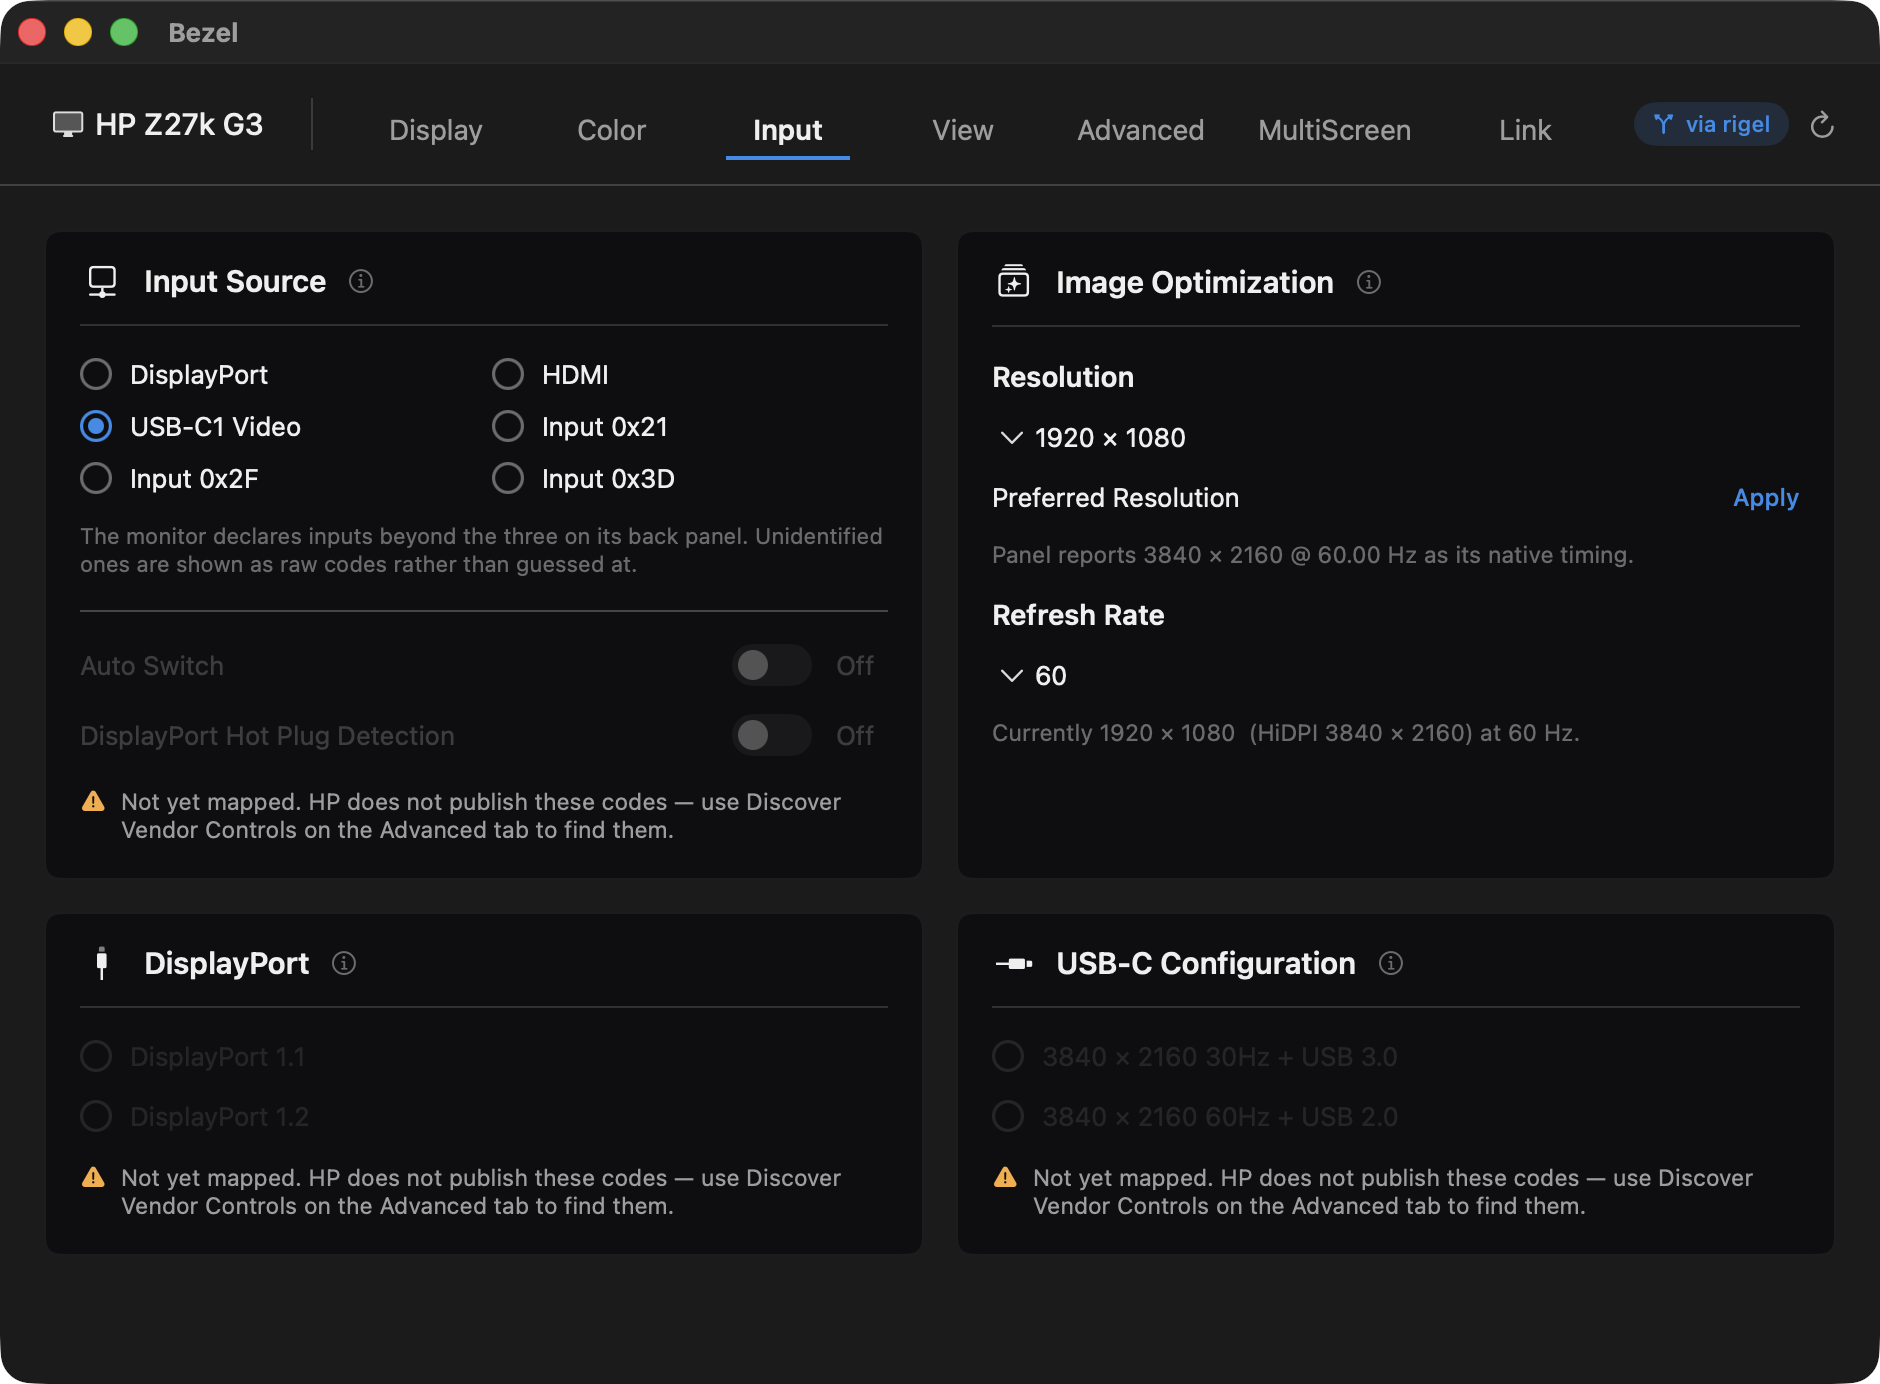
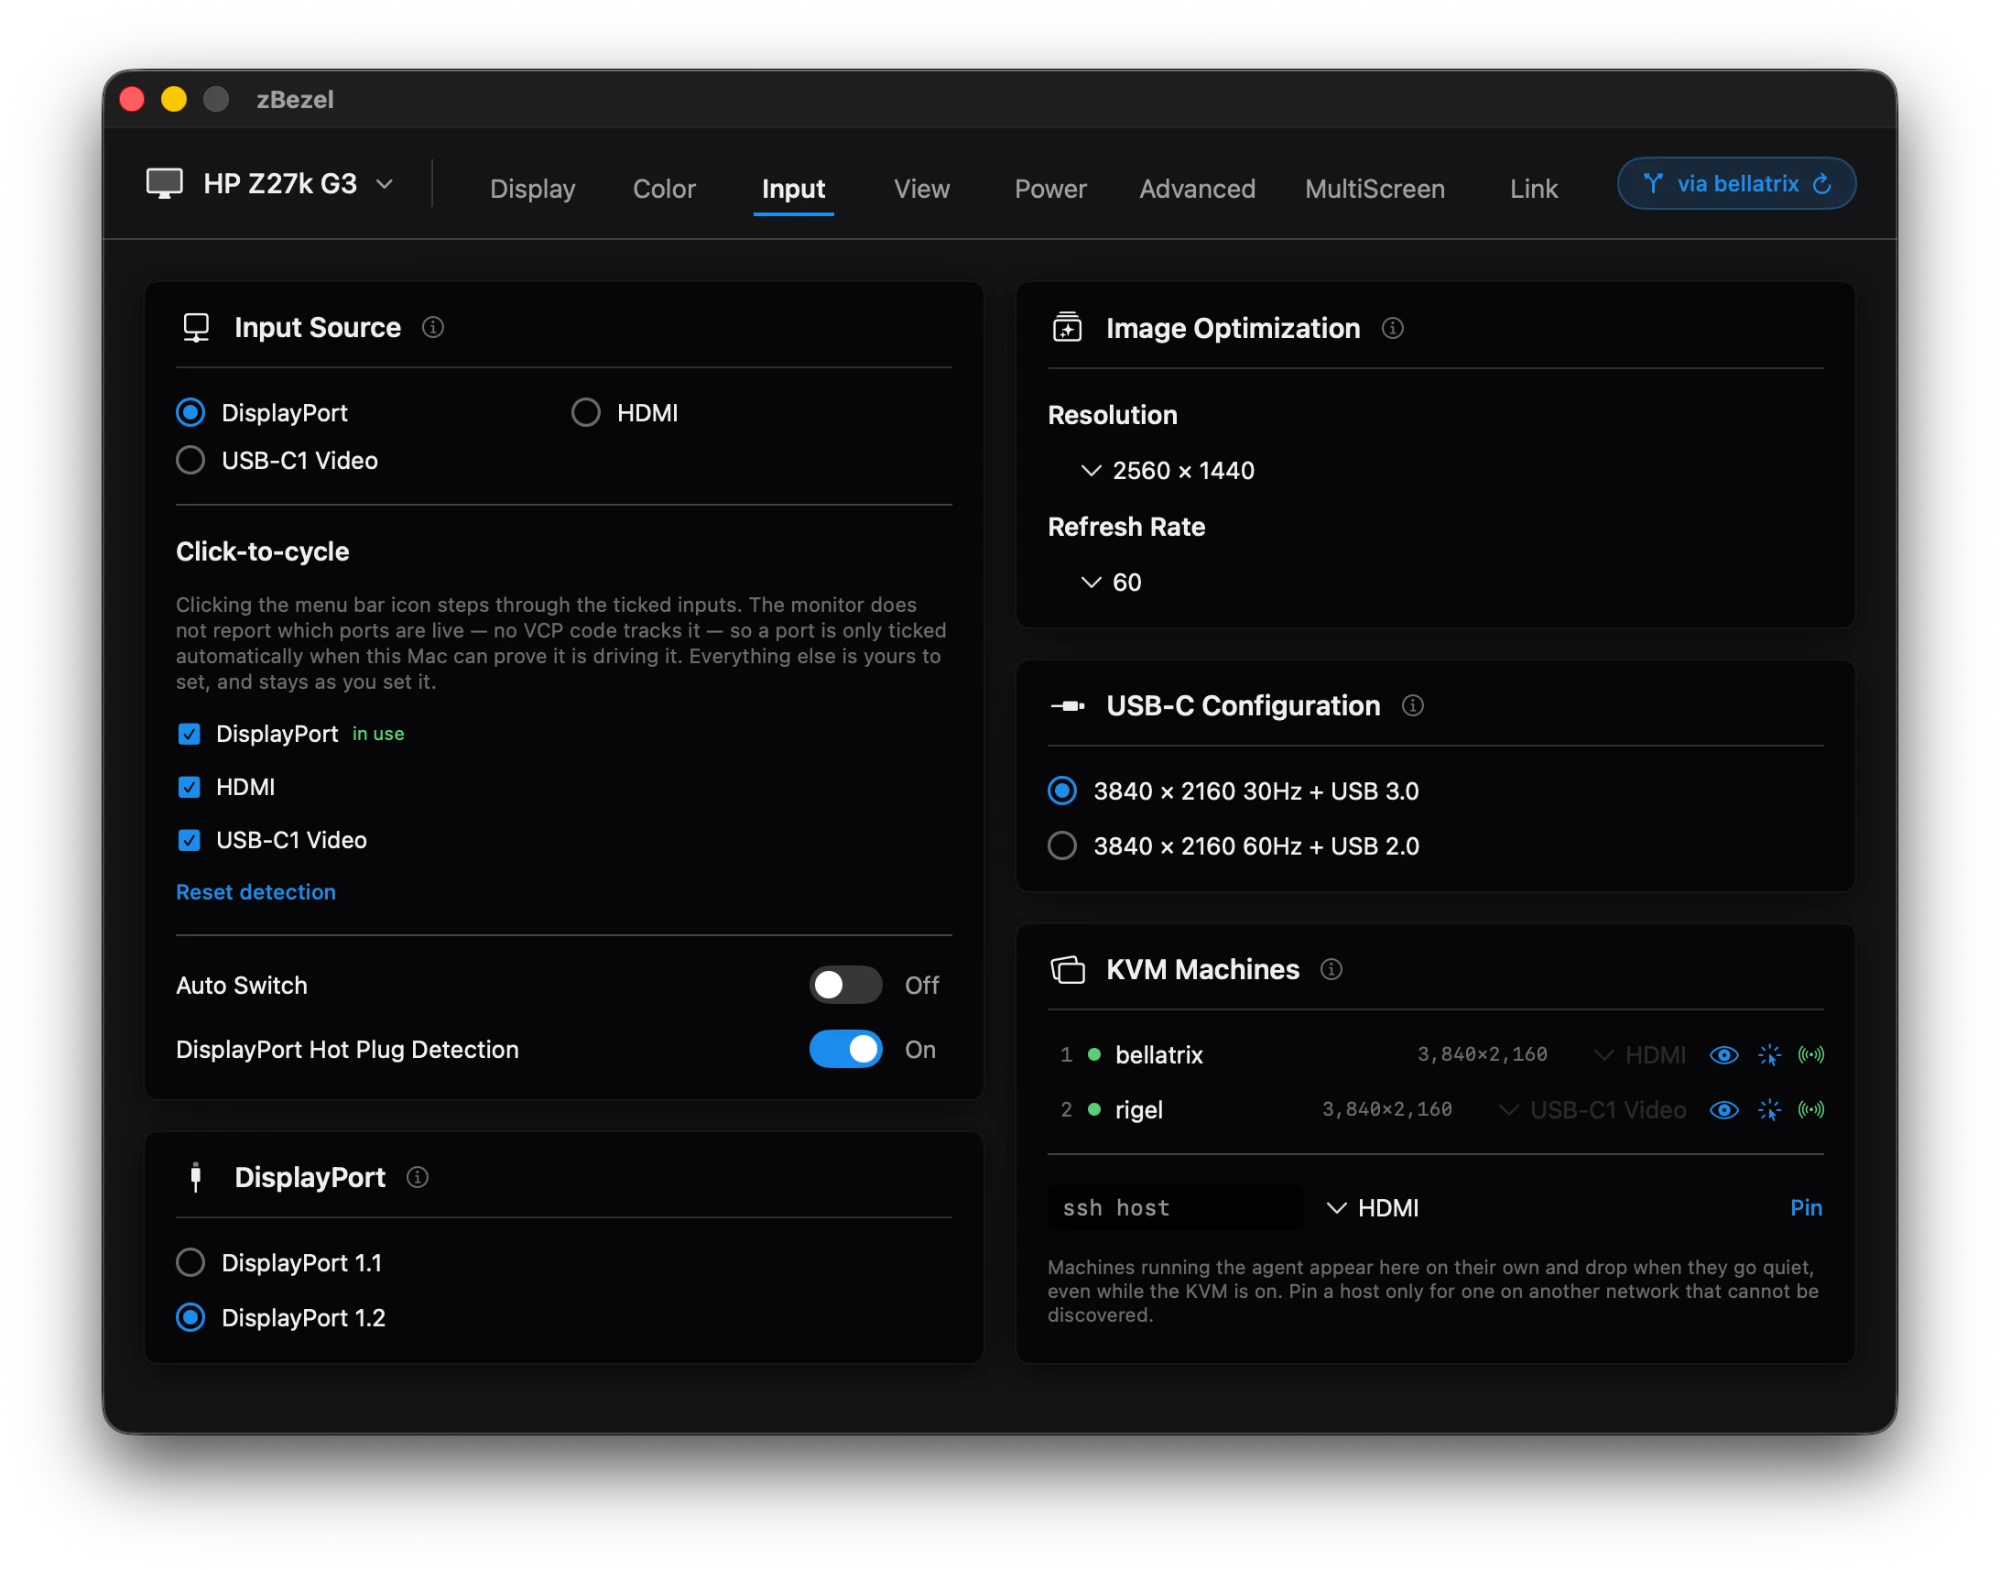
README: add a current-UI screenshot
Replace the stale screenshot with a current shot of the Input tab (balanced layout, networked KVM machine list) and surface it at the top of the README as the landing-page hero.

diff --git a/README.md b/README.md
@@ -4,6 +4,8 @@ A macOS menu bar app for the HP Z27k G3, modelled on HP's Windows
 "HP Display Center". It adjusts the monitor itself over VESA DDC/CI (MCCS), and
 the host-side display settings over CoreGraphics.
 
+![zBezel — DDC/CI input switching, image optimization, and a networked KVM machine list](docs/screenshot.png)
+
 Lives in the menu bar as **zBezel**:
 
 - **Left-click** cycles the monitor's input. The new input's name appears beside
